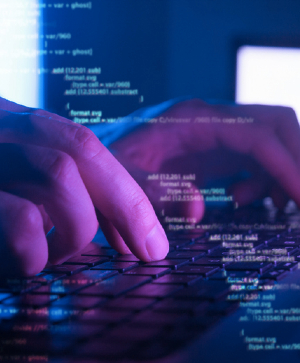
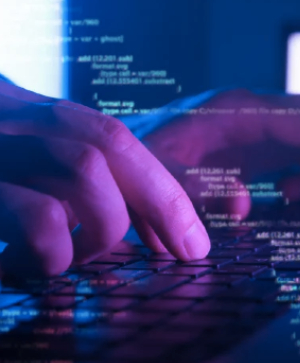
Edit about us

diff --git a/templates/home_page.html b/templates/home_page.html
@@ -112,8 +112,8 @@
                         </div>
                         <div class="right-content">
                           <h4>Neil Agarwal</h4>
-                          <p>Neil is currently an 8th grader in Lakewood Middle School.</p>
-                          <p>He’s always loved computer science and programming and wanted to share that love with others.</p>
+                          <p>Neil will be an incoming high schooler this coming school year. He’s always loved computer science and wants to share that love with others.</p>
+                          <p>He has experience in many popular programming languages such as Java, Python, C++ Swift, Javascript, HTML, CSS and systems like Rest APIs, Flask, and SQL.</p>
                         </div>
                       </div>
                     </li>
@@ -124,8 +124,8 @@
                         </div>
                         <div class="right-content">
                           <h4>Adit Agarwal</h4>
-                          <p>Adit is a CS major and a senior in college at the University of Illinois at Urbana Champaign.</p>
-                          <p>He’s an alumnus of Blue Valley and has taught a programming class for several years before.</p>
+                          <p>Adit is currently a senior in college at the University of Illinois at Urbana Champaign studying Computer Science.</p>
+                          <p>He’s a Blue Valley alumnus and has had similar experience teaching programming classes in the past and wants to continue teaching others and introducing them to the world of computer science.</p>
                         </div>
                       </div>
                     </li>
@@ -136,9 +136,9 @@
                         </div>
                         <div class="right-content">
                           <h4>Why We Founded Byte By Byte</h4>
-                          <p>A few semesters ago when Adit enrolled in college, he found that many of the students in the CS program had gone through out-of-state and private high schools which had focused almost exclusively on computer science.</p>
-                          <p>As a result, many of these students had years of prior programming experience at these schools, giving them a good advantage during their first few semesters.</p>
-                          <p>We wanted this level of education to be more accessible to the public, leading to the foundation of Byte By Byte.</p>
+                          <p>A few semesters ago when Adit enrolled in college, he found that many of the students in the CS program had gone to out-of-state, private high schools which had focused almost exclusively on computer science and STEM education.</p>
+                          <p>As a result, many of these students had <i>years</i> of prior programming experience at these schools, giving them a good advantage during their first few semesters.</p>
+                          <p>We wanted this level of education to be more accessible to the general public, leading to the foundation of Byte By Byte.</p>
                         </div>
                       </div>
                     </li>
@@ -149,9 +149,10 @@
                         </div>
                         <div class="right-content">
                           <h4>What We Teach</h4>
-                          <p>Our goal is to train tomorrow's programmers today by teaching students the necessary fundamentals of computer science with techniques ranging from algorithms to data structures through Java programming.</p>
-                          <p>We hope to enhance students' problem-solving skills through a summer course with weekly meetings, hands-on practice, curated lectures, and weekly assignments.</p>
-                          <p>Through Java we teach about object-oriented programming, algorithms, and several other concepts to help your child succeed in the computer science field.</p>
+                          <p>Our primary mission at Byte By Byte is to <i>train tomorrow's programmers, today</i>.</p>
+                          <p>To achieve this goal, we begin by teaching you the necessary fundamentals of computer science with techniques ranging from algorithms to data structures through the Java programming language. Along with these fundamentals, we’ll also cover the nuances of Java, and more generally, Object Oriented Programming (OOPs) concepts.</p>
+                          <p>Every week this summer, we’ll hold meetings which involve lectures, hands-on programming practice, group challenges, and tailored assignments.</p>
+                          <p>We hope that these lessons will be a good stepping stone for you into the programing world and we will support you as much as possible as we embark on this journey together.</p>
                         </div>
                       </div>
                     </li>
